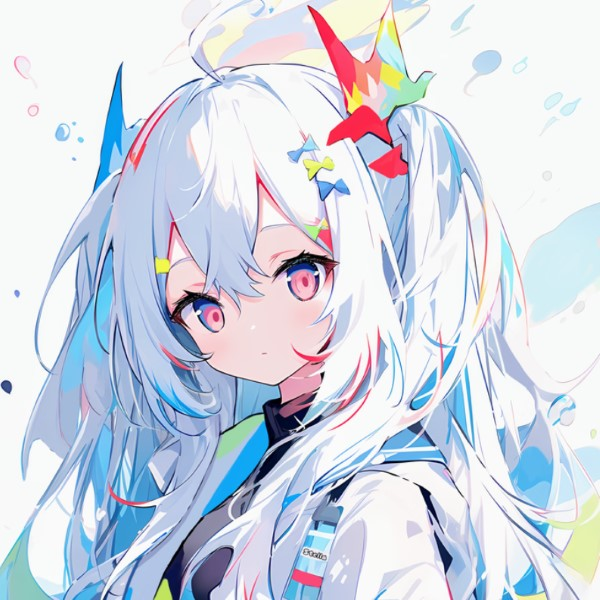
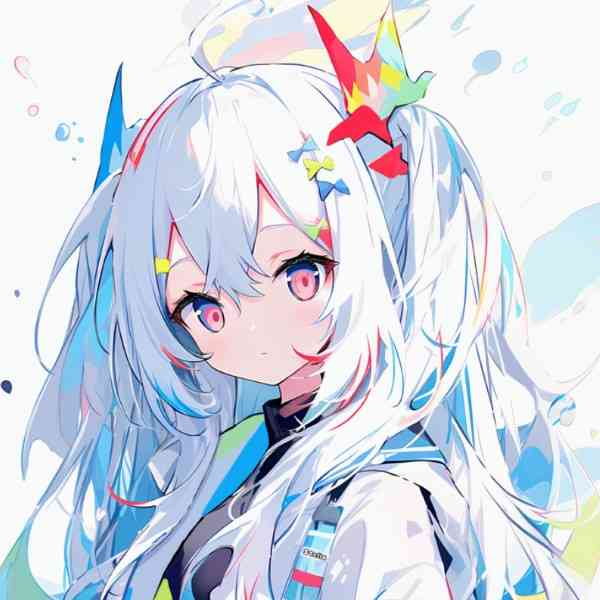
shrink image size

diff --git a/README.md b/README.md
@@ -25,9 +25,9 @@ A theme for <a href="https://hexo.io/">Hexo</a>, modified from <a href="https://
 
 **[💻Live Demo](https://saicaca.github.io/vivia-preview/)**
 
-![home](preview/home.png)
+![home](preview/home.jpg)
 
-![home_dark](preview/home-dark.png)
+![home_dark](preview/home-dark.jpg)
 
 # Install
 

diff --git a/README.zh-CN.md b/README.zh-CN.md
@@ -25,9 +25,9 @@
 
 **[💻在线预览](https://saicaca.github.io/vivia-preview/)**
 
-![home](preview/home.png)
+![home](preview/home.jpg)
 
-![home_dark](preview/home-dark.png)
+![home_dark](preview/home-dark.jpg)
 
 # 安装方式
 
